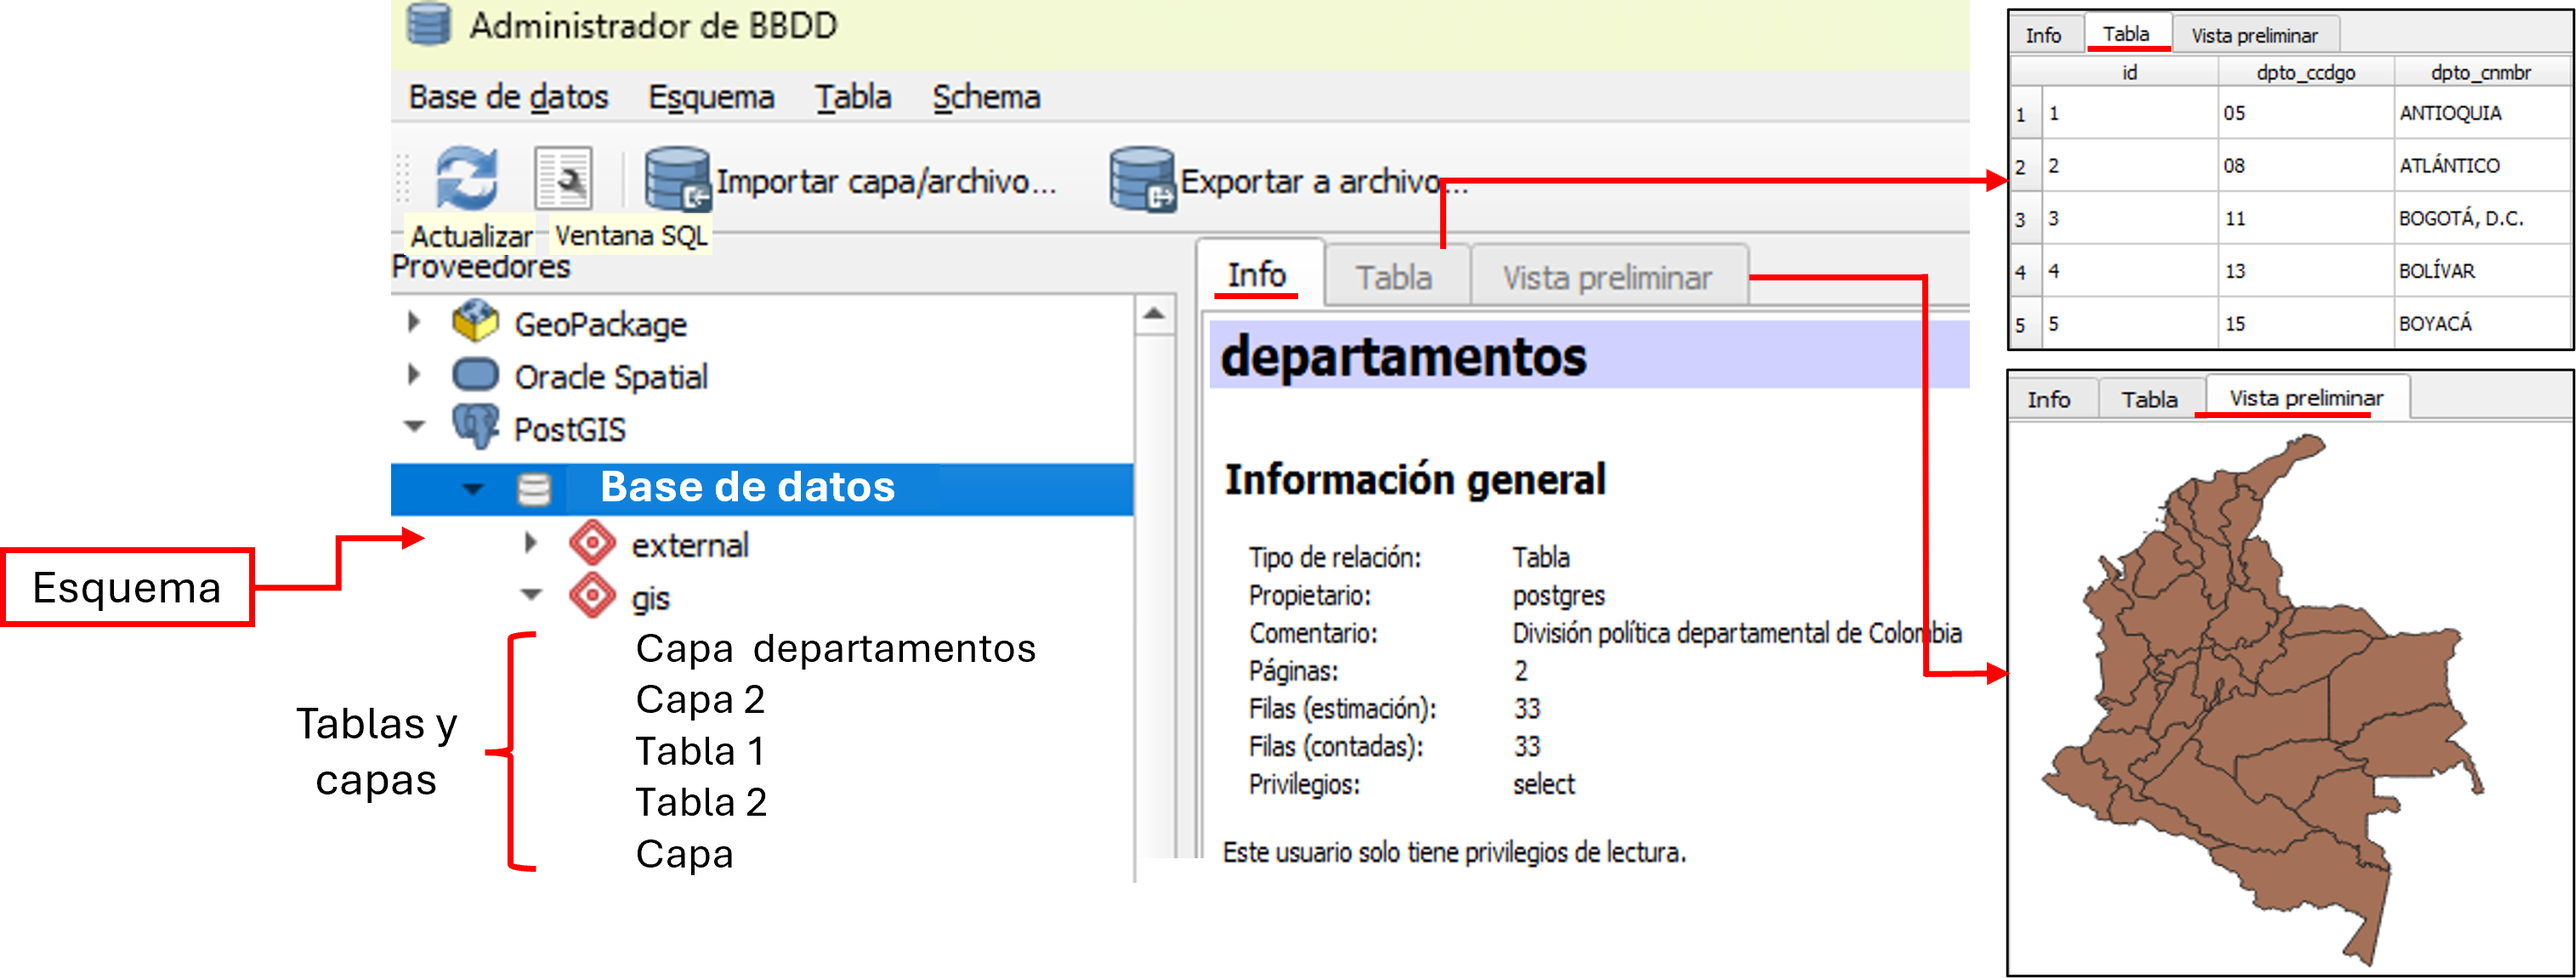
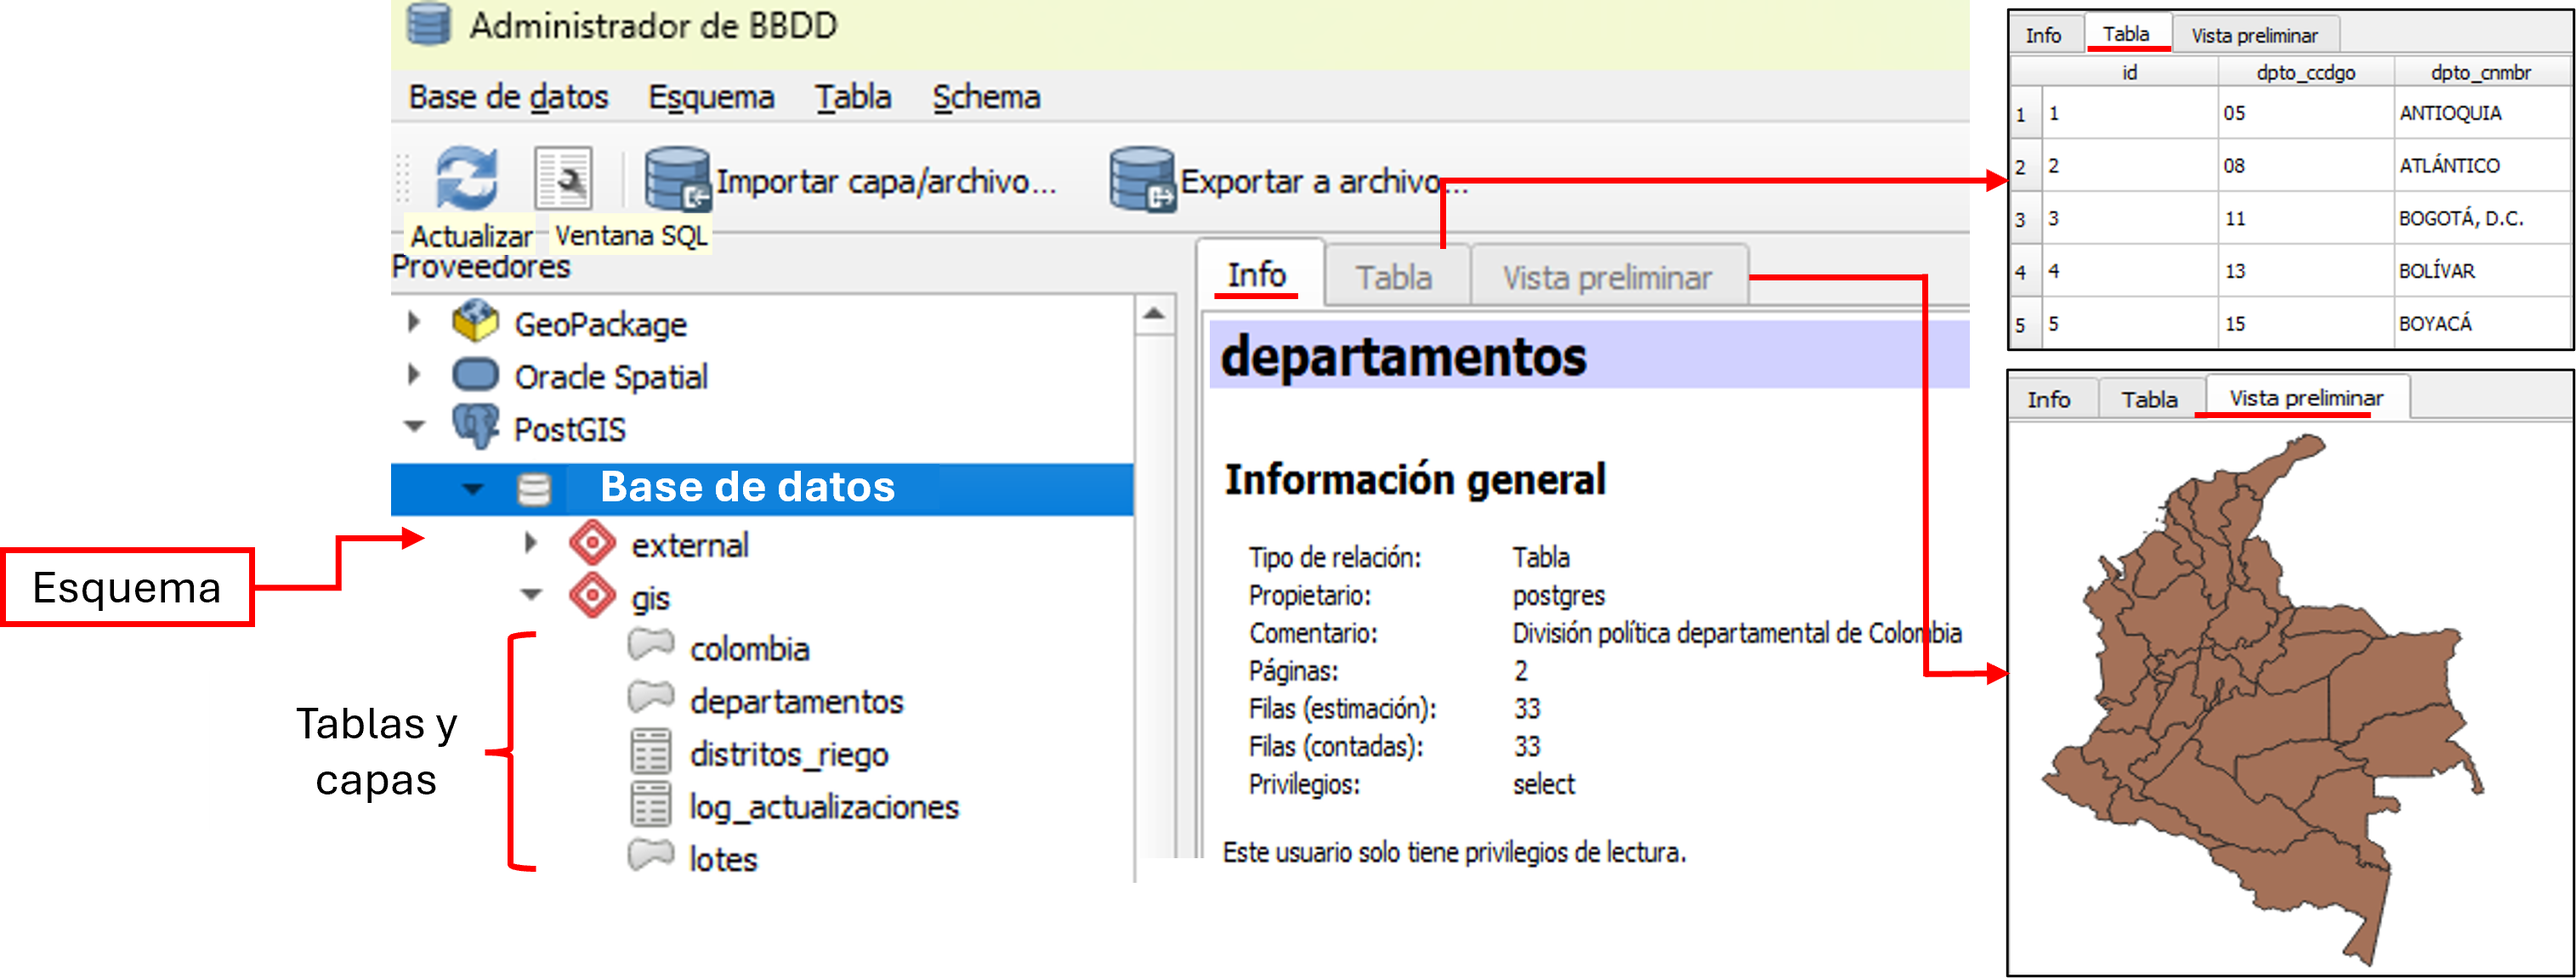
Información añadida Visualización de capas

Changed region(s): [[0.2172, 0.6386, 0.4033, 0.9123]]

diff --git a/_book/qgis_integracion.html b/_book/qgis_integracion.html
@@ -591,7 +591,8 @@ sslmode=prefer - Conexión. </code></pre></li>
 </section>
 <section id="visualización-de-capas" class="level2">
 <h2 class="anchored" data-anchor-id="visualización-de-capas">Visualización de capas</h2>
-<p>Para poder visualizar y editar las capas contenidas en la base de datos,</p>
+<p>Ingrese a la base de datos para visualizar y editar las capas de interés. En la barra de menús seleccione <em>Base de datos</em> &gt; <em>Administrador de bases de datos</em>. En la ventana <em>Administrador de BBDD</em>, diríjase a <em>PostGIS</em> &gt; seleccione la base de datos de interés &gt; esquema que contiene la/s capa/s &gt; click derecho sobre la capa que quiere visualizar o editar &gt; Seleccione <em>Añadir al lienzo</em>.</p>
+<p><img src="assets/Añadir capa al lienzo de trabajo.png" class="img-fluid"></p>
 <ol type="1">
 <li><p>f</p></li>
 <li><p>f</p></li>
